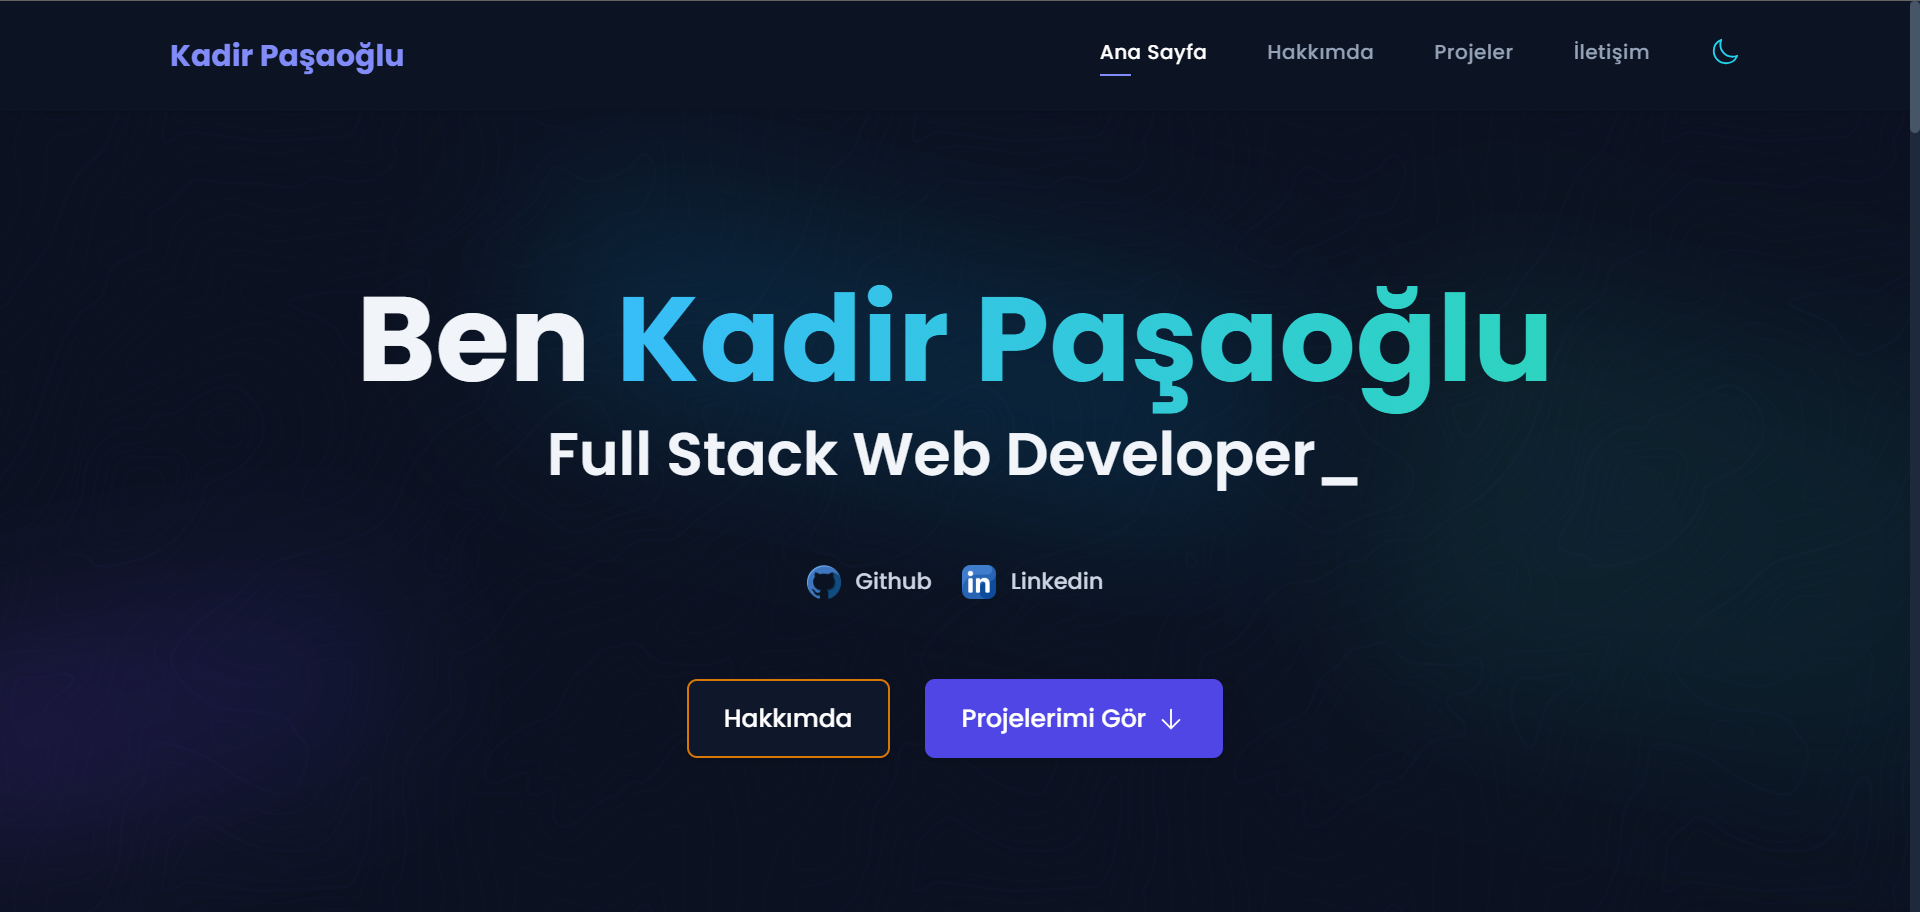
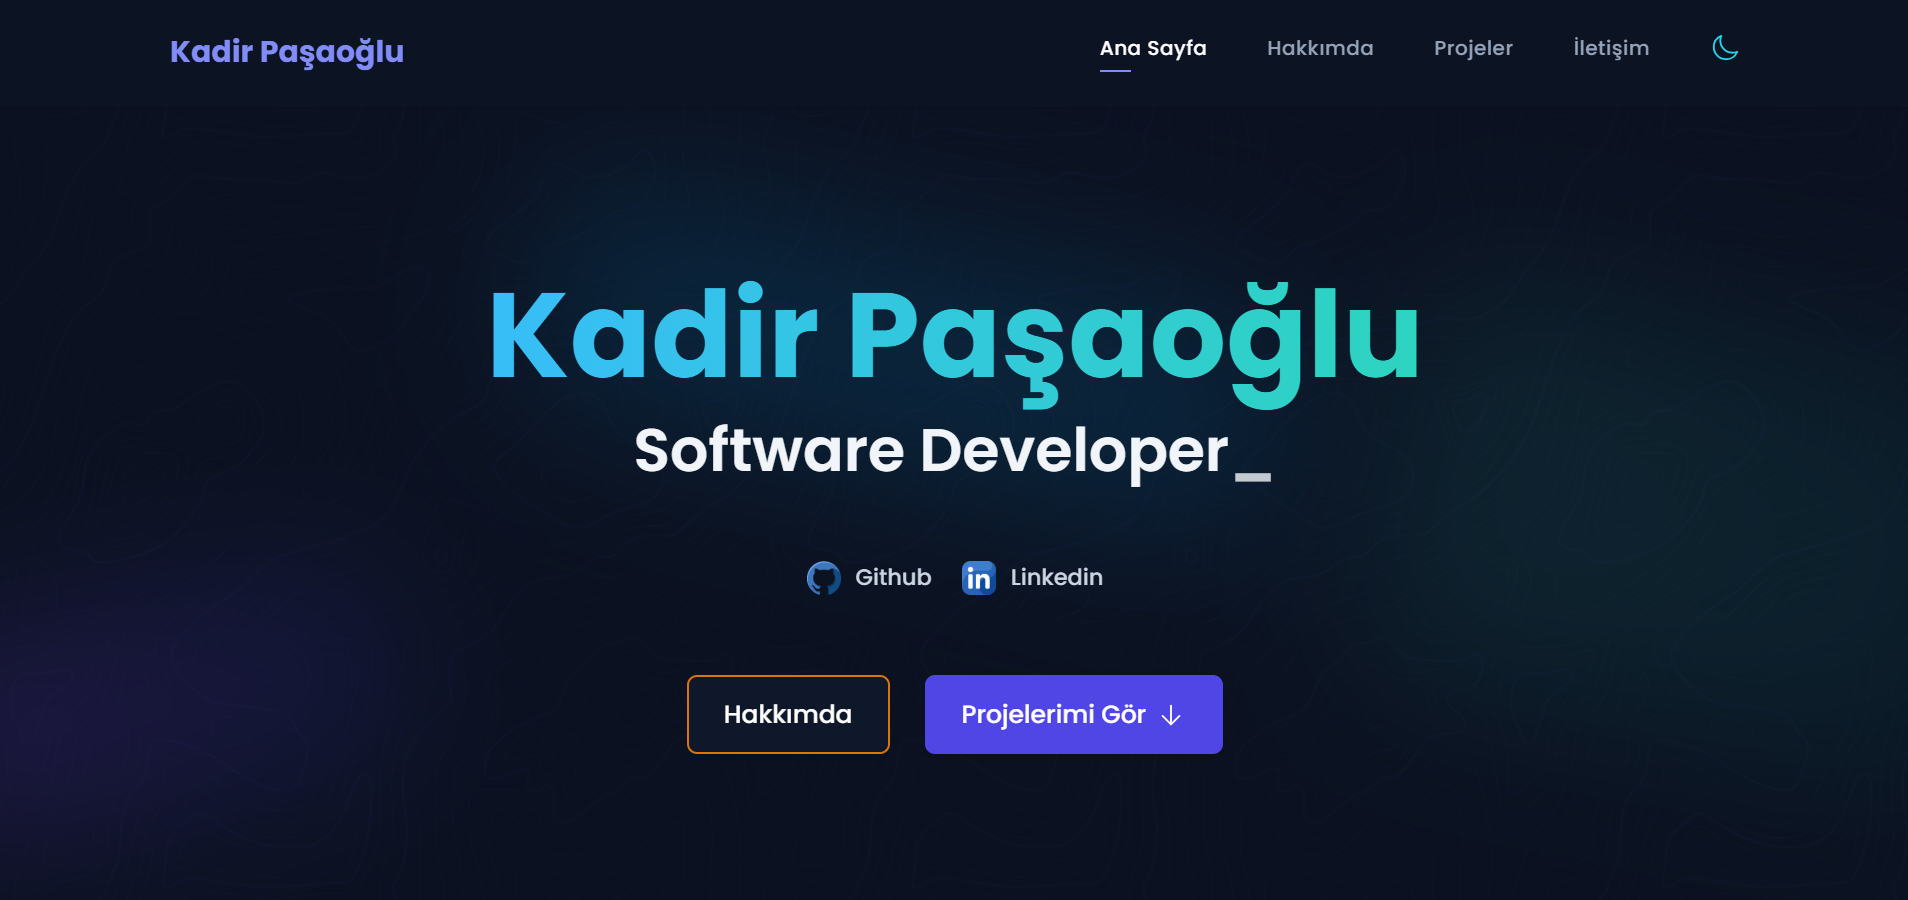
düzeltme

diff --git a/src/sections/Hero.vue b/src/sections/Hero.vue
@@ -8,7 +8,7 @@ let typed;
 
 onMounted(() => {
     typed = new Typed(typedElement.value, {
-        strings: ["Full Stack Web Developer", "Bilgisayar Mühendisi"],
+        strings: ["Software Developer", "Computer Engineer"],
         typeSpeed: 50,
         backSpeed: 30,
         backDelay: 5000,
@@ -48,7 +48,7 @@ onBeforeUnmount(() => {
                 }"
                 class="text-4xl md:text-6xl lg:text-8xl font-bold font-heading dark:text-slate-100 mb-5 text-center"
             >
-                Ben <span class="bg-clip-text text-transparent bg-gradient-to-r from-sky-500 to-purple-500 dark:from-sky-400 dark:to-teal-400">Kadir Paşaoğlu</span>
+                 <span class="bg-clip-text text-transparent bg-gradient-to-r from-sky-500 to-purple-500 dark:from-sky-400 dark:to-teal-400">Kadir Paşaoğlu</span>
             </h1>
             <h2
                 v-motion

diff --git a/index.html b/index.html
@@ -5,9 +5,9 @@
     <meta charset="UTF-8">
     <meta name="viewport" content="width=device-width, initial-scale=1.0">
 
-    <title>Kadir Paşaoğlu | Full Stack Developer</title>
+    <title>Kadir Paşaoğlu | Software Engineer</title>
 
-    <meta property="og:title" content="Fahim Anzam Dip || Web Developer" />
+    <meta property="og:title" content="Kadir Paşaoğlu | Software Engineer" />
     <meta property="og:image" content="/images/og_image.png" />
     <meta property="og:url" content="https://fahimanzamdip.github.io/" />
     <meta property="og:type" content="website" />
